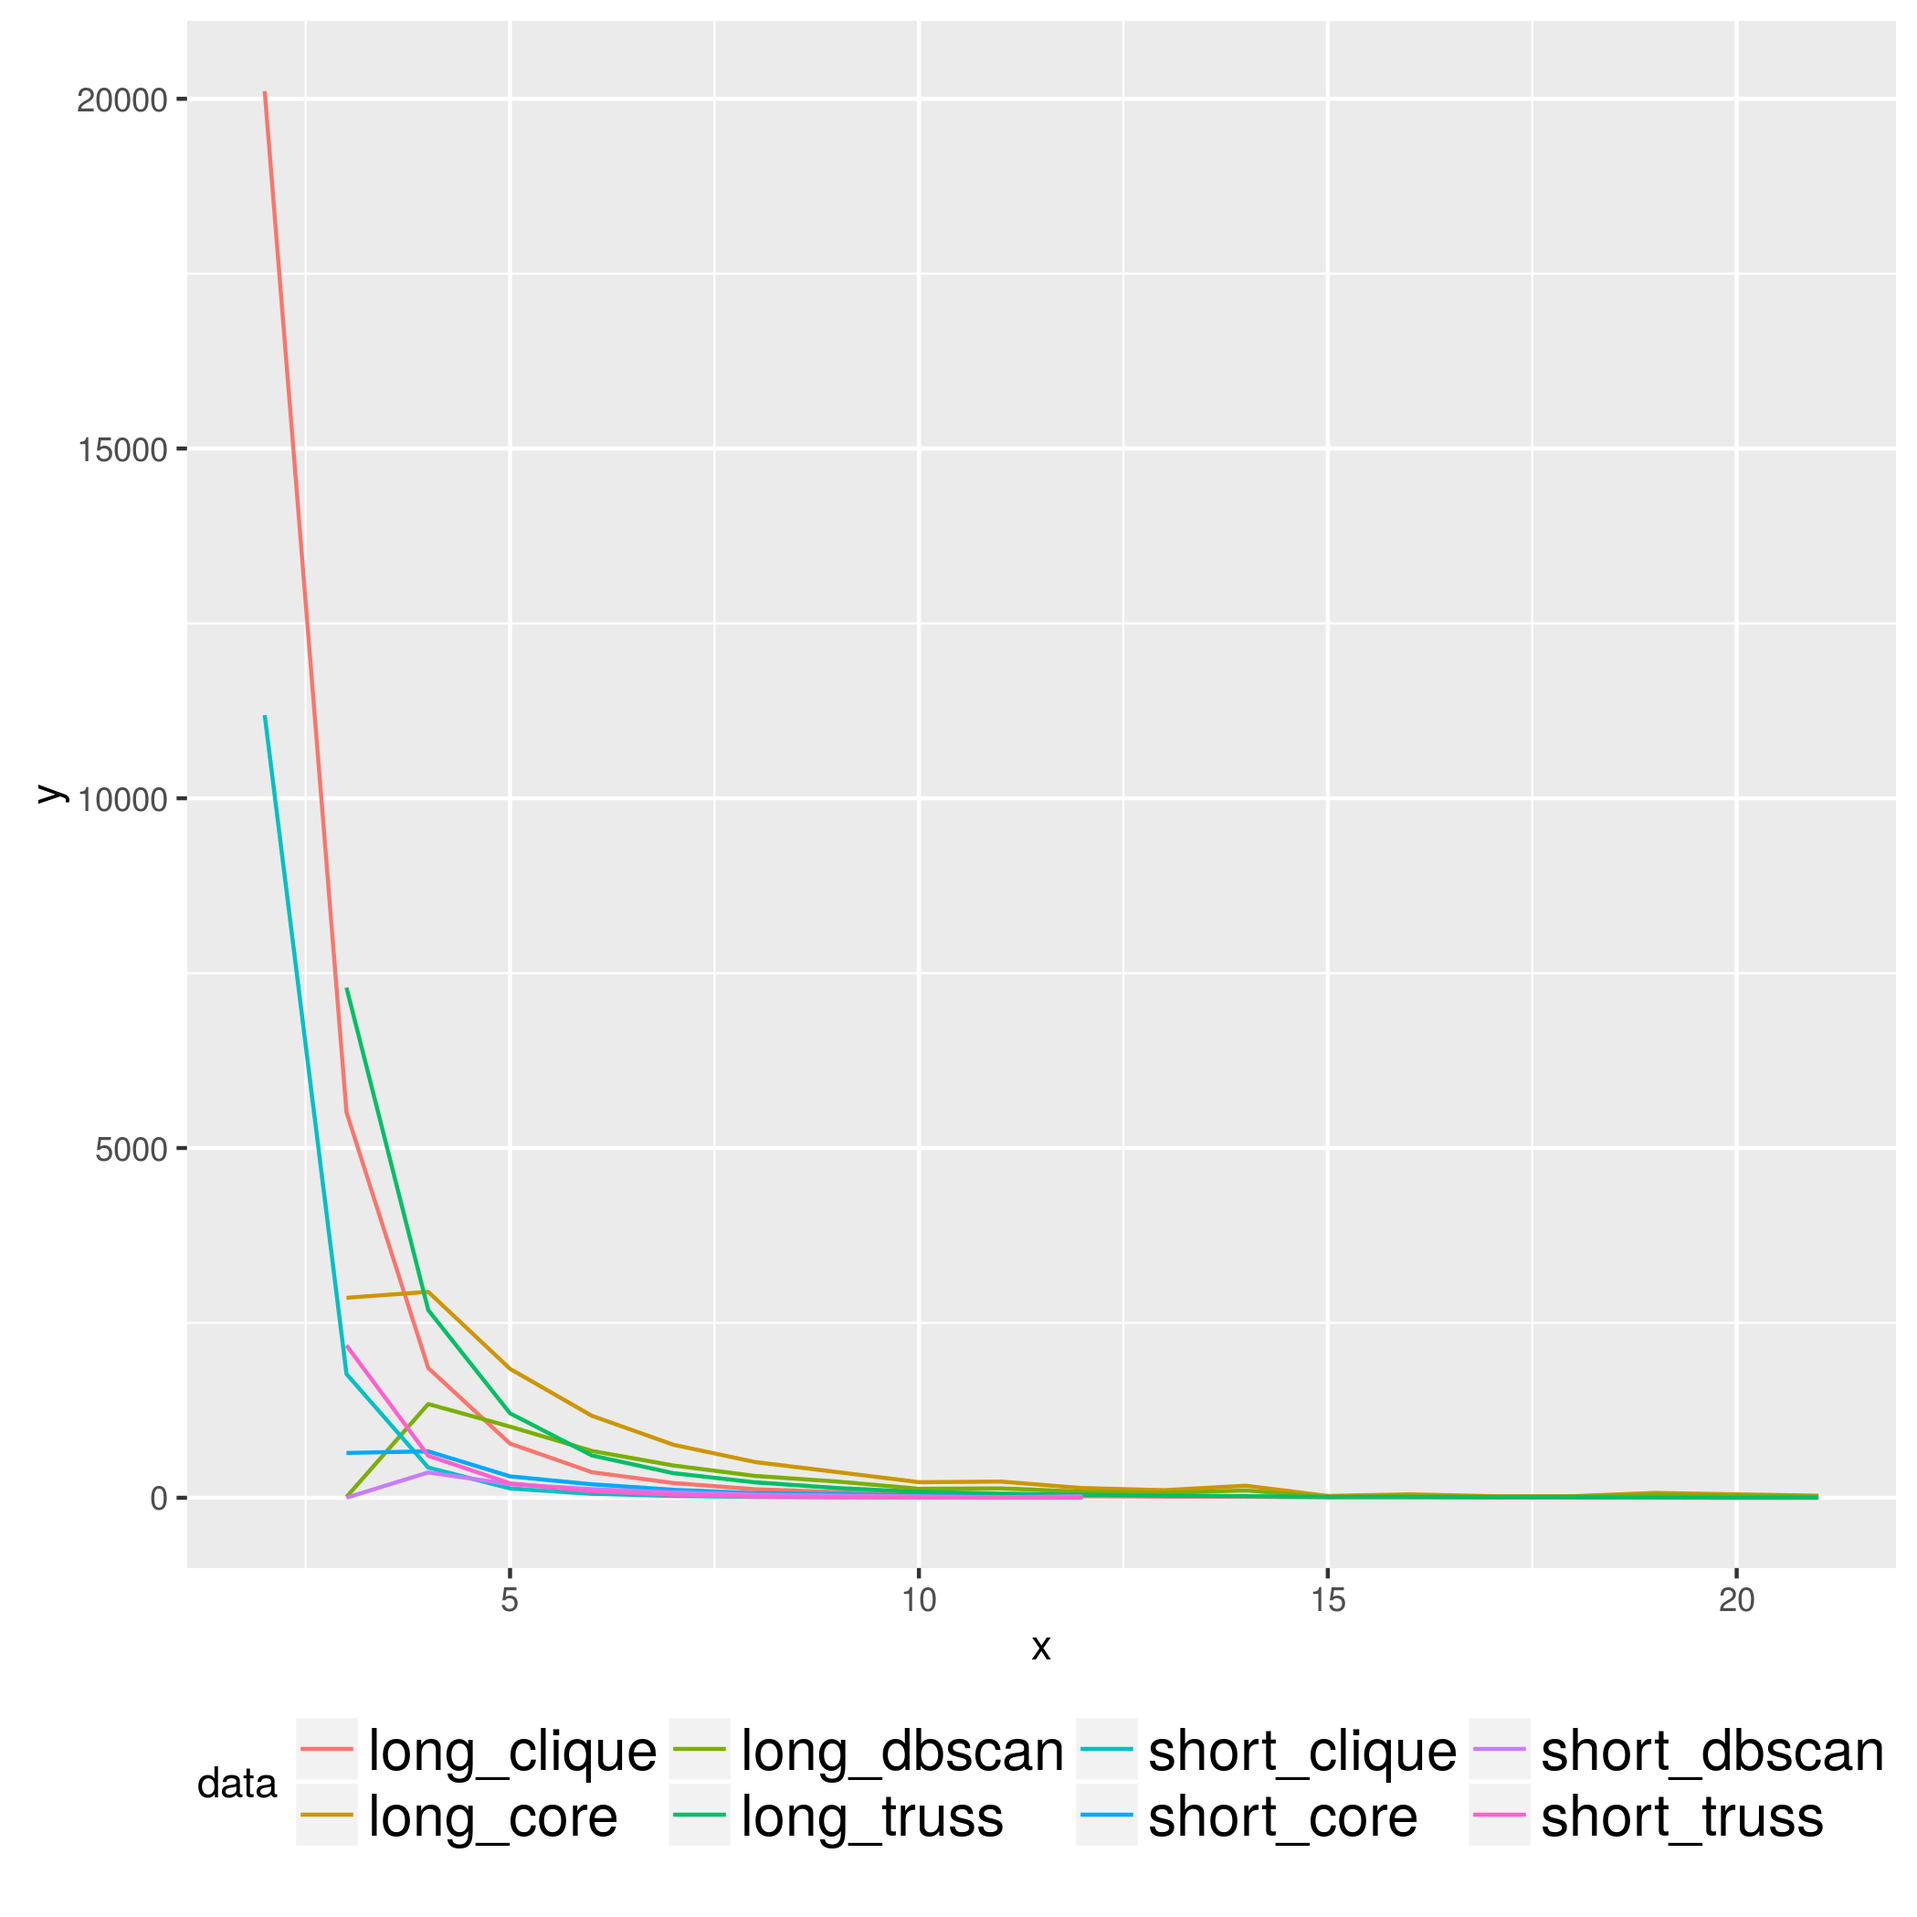
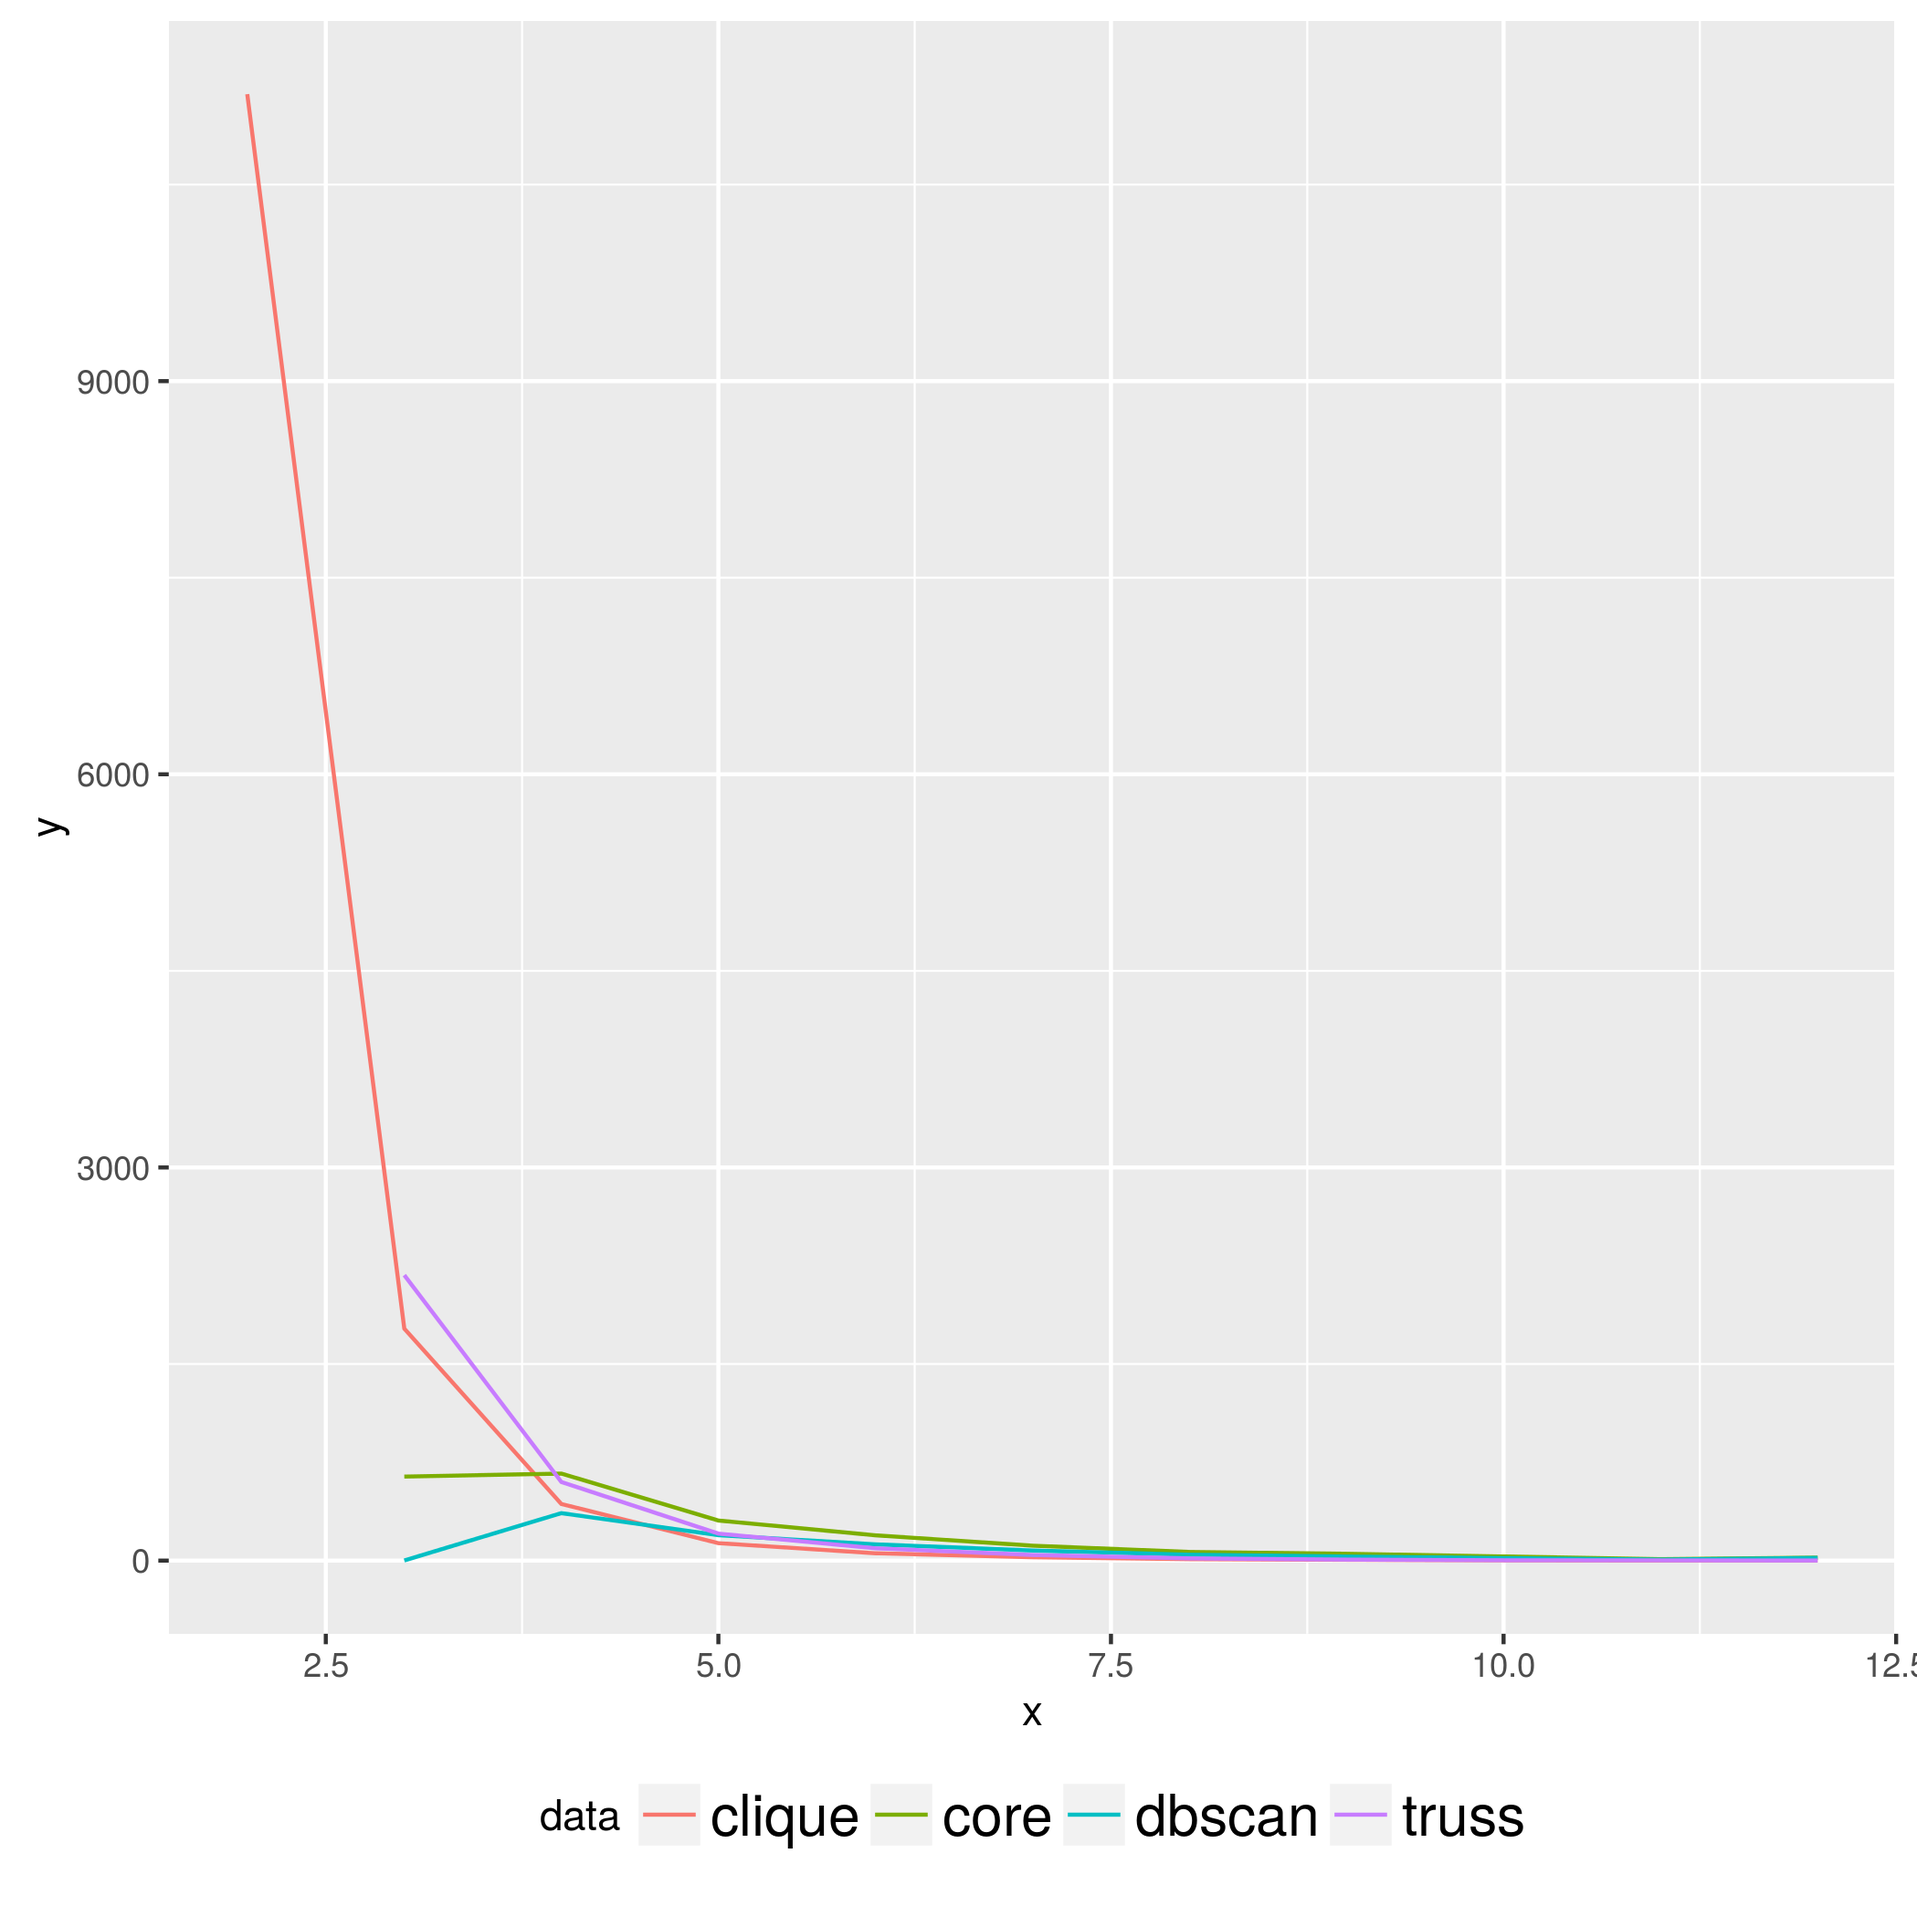
two bucket figures

diff --git a/scripts/data_analysis.py b/scripts/data_analysis.py
@@ -52,8 +52,9 @@ class JsonStats:
         with open(file) as data_file:    
             data = json.load(data_file)
         
-        name_items       = basename(file).replace(".json", "").split("_")
-        self.name        = "long_" if name_items[2] == "200" else "short_" 
+        #name_items       = basename(file).replace(".json", "").split("_")
+        #self.name        = "long_" if name_items[2] == "200" else "short_" 
+        self.name        = "" 
         self.numV        = data["content"]["graph property"]["numV"] 
         self.numE        = data["content"]["graph property"]["numE"]
         self.numCC       = data["content"]["graph property"]["numCC"] 
@@ -81,12 +82,10 @@ class JsonStats:
         self.coreSize    = self.getSizeMean(self.core,   self.coreSize)
         self.dbscanSize  = self.getSizeMean(self.dbscan, self.dbscanSize)
         
-        self.cliqueCoe   = self.reduce(data["content"]["graph property"]["clique_coe"], False)
         self.trussCoe    = self.reduce(data["content"]["graph property"]["truss_coe"],  False)
         self.coreCoe     = self.reduce(data["content"]["graph property"]["dbscan_coe"], False)
         self.dbscanCoe   = self.reduce(data["content"]["graph property"]["core_coe"],   False)
 
-        self.cliqueCoe   = self.getSizeMean(self.clique, self.cliqueCoe)
         self.trussCoe    = self.getSizeMean(self.truss,  self.trussCoe)
         self.coreCoe     = self.getSizeMean(self.core,   self.coreCoe)
         self.dbscanCoe   = self.getSizeMean(self.dbscan, self.dbscanCoe)
@@ -103,12 +102,12 @@ class JsonStats:
                 if if_freq:
                     stats_item[int(pair[0])] += 1 
                 else:
-                    stats_item[int(pair[0])] += int(pair[1])
+                    stats_item[int(pair[0])] += float(pair[1])
             else:
                 if if_freq:
                     stats_item[int(pair[0])] = 1 
                 else:
-                    stats_item[int(pair[0])] = int(pair[1])
+                    stats_item[int(pair[0])] = float(pair[1])
         X = [0] * len(stats_item)
         Y = [0] * len(stats_item)
         i=0
@@ -163,7 +162,8 @@ class JsonStatsCollections:
                 if file.find(prefix) != -1:
                     stats = JsonStats(file)  
                     self.coll[file] = stats
-            except:
+            except Exception, e:
+                print e
                 print "Data Corruption in " + file
 
     def plot(self, ofname, is_freq):
@@ -194,11 +194,14 @@ class JsonStatsCollections:
         i = 0
         d = []
         for c in self.coll: 
-            if is_freq == False:
-                d = self.transformDataGgPlotSize(c, d)
-            elif is_freq == True:
+            if is_freq == 1:
                 d = self.transformDataGgPlot(c, d)
+            elif is_freq == 2:
+                d = self.transformDataGgPlotSize(c, d)
+            elif is_freq == 3:
+                d = self.transformDataGgPlotCoe(c, d)
         f = DataFrame(d)
+        print ofname
         f.to_csv(ofname.replace("png", "csv"), sep=',')
 
         call(["Rscript", "../../../scripts/data_analysis.R", ofname.replace("png", "csv"), ofname ])
@@ -226,14 +229,10 @@ class JsonStatsCollections:
             trip = {'data': self.coll[c].name+'dbscan', 'x': item['x'][i], 'y' : item['y'][i]}
             ret.append(trip)
             
+    def transformDataGgPlotCoe(self, c, ret):
         item = self.coll[c].trussCoe
         for i in range(0, len(item['x'])):
             trip = {'data': self.coll[c].name+'truss_coe', 'x': item['x'][i], 'y' : item['y'][i]}
-            ret.append(trip)
-
-        item = self.coll[c].cliqueCoe
-        for i in range(0, len(item['x'])):
-            trip = {'data': self.coll[c].name+'clique_coe', 'x': item['x'][i], 'y' : item['y'][i]}
             ret.append(trip)
 
         item = self.coll[c].coreCoe
@@ -306,10 +305,12 @@ def main(argv):
         coll = JsonStatsCollections(dir, pfx)
         oname1 = dir + pfx + '.png'
         oname2 = dir + pfx + '_size.png'
+        oname3 = dir + pfx + '_coe.png'
         #coll.plot(oname2, False)
         #coll.plot(oname1, True)
-        coll.gplot(oname2, False)
-        coll.gplot(oname1, True)
+        coll.gplot(oname1, 1)
+        coll.gplot(oname2, 2)
+        coll.gplot(oname3, 3)
 
 if __name__ == "__main__":
     main(sys.argv)
